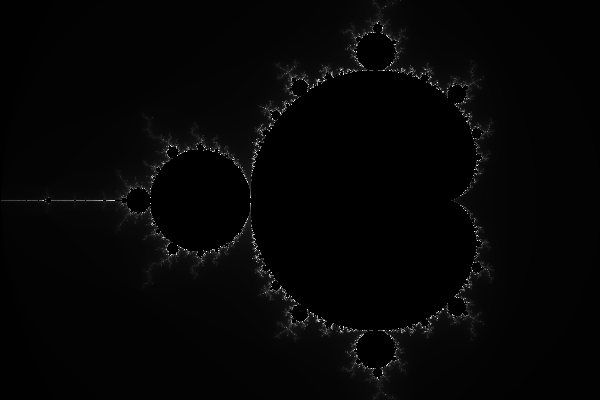
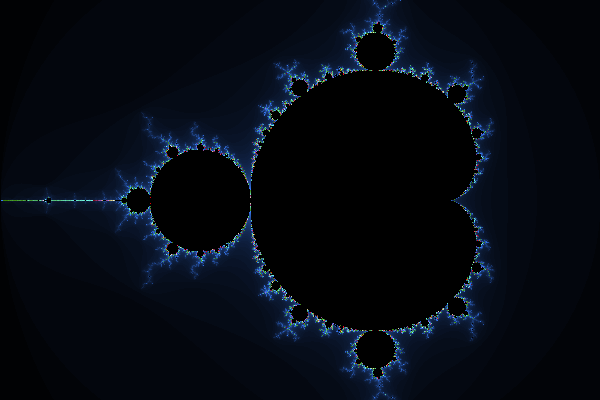
Added palette.

Changed region(s): [[0.0, 0.0, 0.84, 1.0]]

diff --git a/mandlebrot_sequential.cpp b/mandlebrot_sequential.cpp
@@ -13,13 +13,13 @@ struct complex{
 };
 
 // Function prototypes
-void generateMandlebrotImage(png::image< png::rgb_pixel > *image);
+void generateMandlebrotImage(png::image< png::index_pixel > *image);
 int cal_pixel(complex c);
-inline void setPixel(int x, int y, int color, png::image< png::rgb_pixel > *image);
+inline void setPixel(int x, int y, int color, png::image< png::index_pixel > *image);
 
 // Global constants
-int disp_height = 400;
-int disp_width = 600;
+int disp_height = 4000;
+int disp_width = 6000;
 
 int real_max = 1;
 int real_min = -2;
@@ -28,7 +28,13 @@ int imag_min = -1;
 
 int main()
 {
-  png::image< png::rgb_pixel > image(disp_width, disp_height);
+  // Initialize png image and create palette
+  png::image< png::index_pixel > image(disp_width, disp_height);
+  png::palette pal(256);
+  for (size_t i = 0; i < pal.size(); ++i){
+    pal[i] = png::color(i, i*2.2, i*4.4);
+  }
+  image.set_palette(pal);
 
   // Start timer
   boost::chrono::system_clock::time_point start = boost::chrono::system_clock::now();
@@ -44,7 +50,7 @@ int main()
   return 0;
 }
 
-void generateMandlebrotImage(png::image< png::rgb_pixel > *image)
+void generateMandlebrotImage(png::image< png::index_pixel > *image)
 {
   double scale_real = double(real_max - real_min) / disp_width;
   double scale_imag = double(imag_max - imag_min) / disp_height;
@@ -85,8 +91,8 @@ int cal_pixel(complex c)
   return count;
 }
 
-inline void setPixel(int x, int y, int color, png::image< png::rgb_pixel > *image)
+inline void setPixel(int x, int y, int color, png::image< png::index_pixel > *image)
 {
-  (*image)[y][x] = png::rgb_pixel(color, color, color);
+  (*image)[y][x] = png::index_pixel(color);
 }
 
